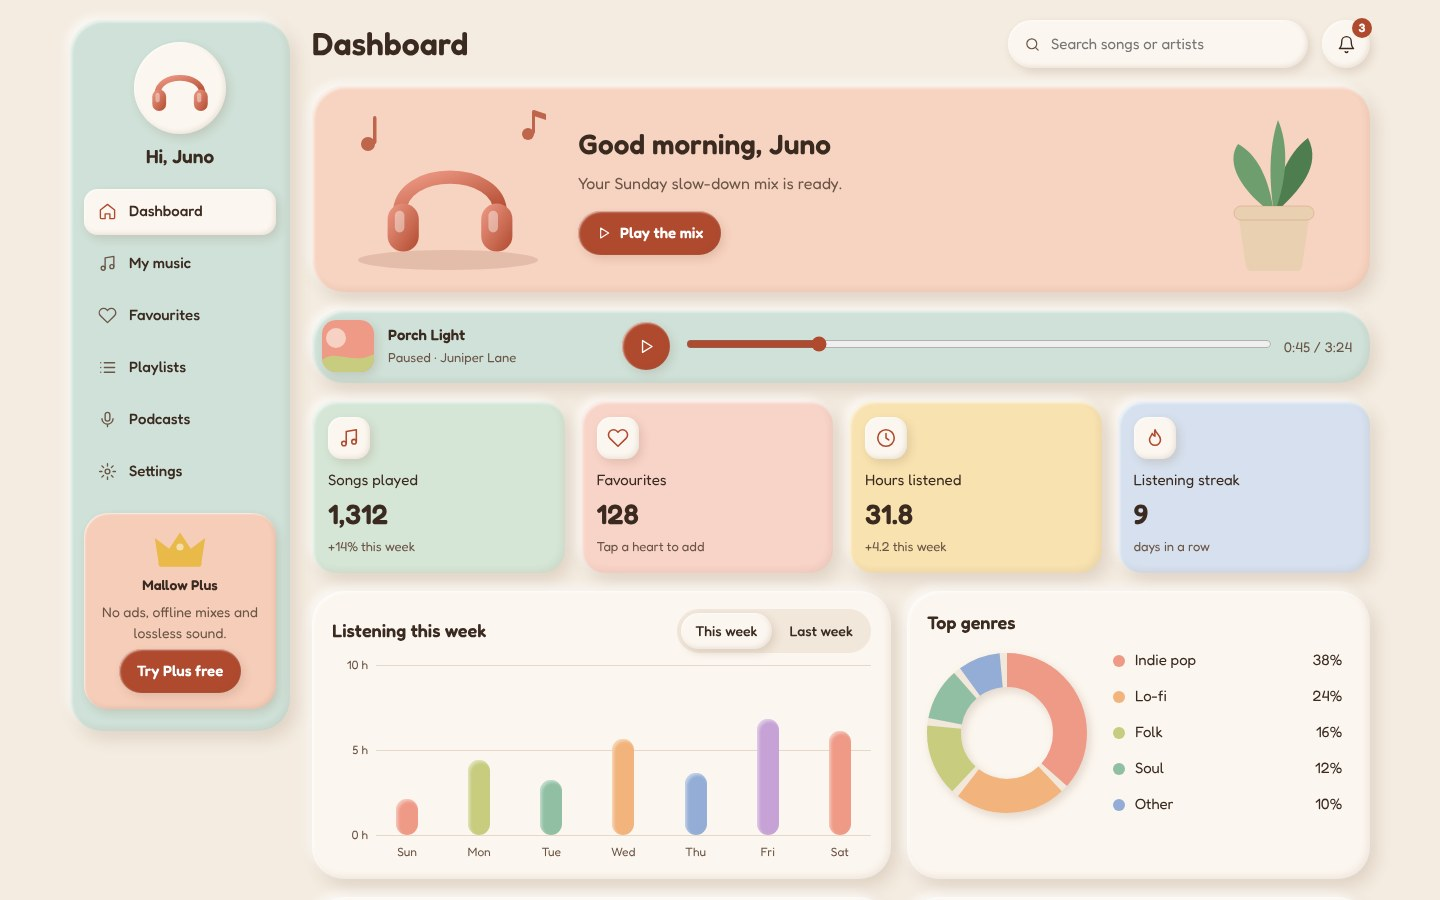
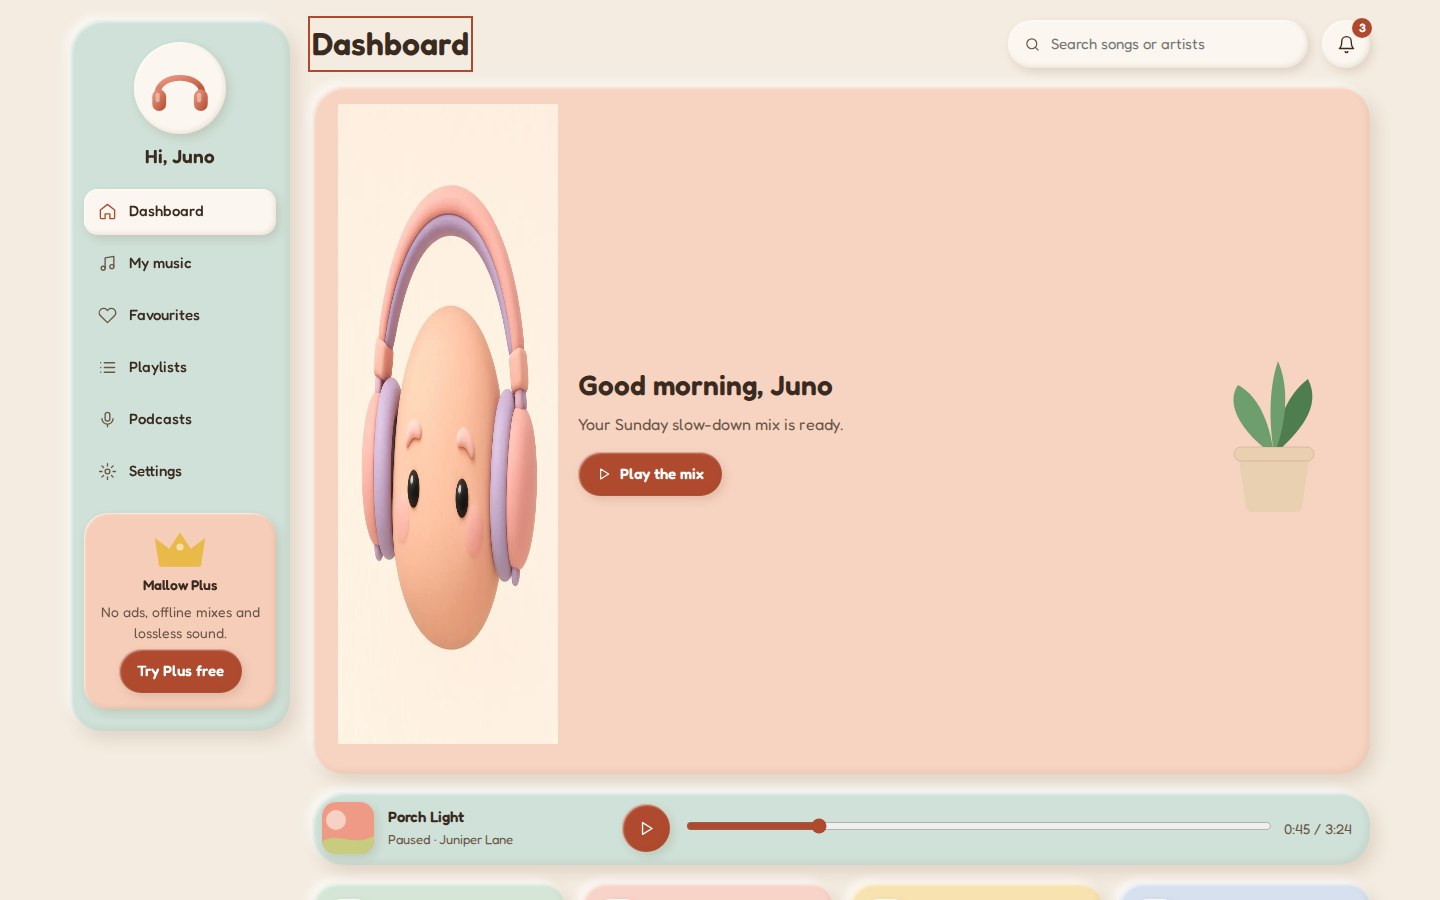
Polish dashboard 12: Mallow Music (fidelity, pages, motion)

diff --git a/site/dashboards/mallow-music/app.js b/site/dashboards/mallow-music/app.js
@@ -75,9 +75,7 @@
     <rect x="8" y="58" width="26" height="40" rx="13" fill="url(#mm-hp${s})"/><rect x="86" y="58" width="26" height="40" rx="13" fill="url(#mm-hp${s})"/>
     <rect x="14" y="64" width="8" height="18" rx="4" fill="var(--surface)" opacity="0.45"/><rect x="92" y="64" width="8" height="18" rx="4" fill="var(--surface)" opacity="0.45"/></svg>`;
   $('[data-avatar]').innerHTML = phones('a');
-  $('[data-hero]').innerHTML = `<svg viewBox="0 0 220 170"><ellipse cx="110" cy="156" rx="90" ry="10" fill="var(--wood-2)" opacity="0.18"/>
-    <g transform="translate(40 30) scale(1.2)">${phones('h').replace(/^<svg[^>]*>|<\/svg>$/g, '')}</g>
-    <g fill="var(--accent)" opacity="0.8"><circle cx="30" cy="40" r="7"/><rect x="35" y="12" width="3.500" height="28" rx="2"/><circle cx="190" cy="30" r="6"/><rect x="194" y="6" width="3" height="24" rx="2"/><path d="M196,6 l12,4 v6 l-12,-4Z"/></g></svg>`;
+  $('[data-hero]');
   $('[data-plant]').innerHTML = `<svg viewBox="0 0 140 170"><path d="M70,110 C40,90 20,60 34,40 C56,52 66,80 70,110 Z" fill="var(--leaf)"/><path d="M70,110 C96,86 118,62 104,34 C82,50 72,80 70,110 Z" fill="var(--leaf-2)"/><path d="M70,110 C64,70 66,40 74,16 C86,44 82,80 70,110 Z" fill="var(--leaf)"/>
     <path d="M34,108 h72 l-8,54 a6,6 0 0 1 -6,5 h-44 a6,6 0 0 1 -6,-5 Z" fill="var(--pot)"/><rect x="30" y="102" width="80" height="14" rx="7" fill="var(--pot)" stroke="var(--wood)" stroke-opacity="0.3"/></svg>`;
   $('[data-crown]').innerHTML = `<svg viewBox="0 0 60 44"><path d="M6,36 L2,10 L18,22 L30,4 L42,22 L58,10 L54,36 Z" fill="var(--gold)"/><rect x="6" y="34" width="48" height="8" rx="4" fill="var(--gold)"/><circle cx="30" cy="20" r="4" fill="var(--surface)" opacity="0.6"/></svg>`;
@@ -137,9 +135,25 @@
   $('[data-plus]').addEventListener('click', (e) => { e.target.textContent = 'Trial started'; e.target.disabled = true; });
   seg($('[data-week]'), (v) => { week = v; renderBars(); });
   renderPlayer(); renderTracks(); renderBars(); renderGenres(); renderMix();
-/* === DB multipage bootstrap (generated; polish pass replaces stubs) === */
+/* === DB multipage polish (auto-upgraded) === */
   (function wirePages() {
+    const reduce = matchMedia('(prefers-reduced-motion: reduce)').matches;
     const PAGES = [{"id":"overview","name":"Overview","pattern":"Dashboard"},{"id":"library","name":"Library","pattern":"List"},{"id":"activity","name":"Activity","pattern":"Report"},{"id":"settings","name":"Settings","pattern":"Settings"}];
+    const root = document.querySelector('[data-db-app]') || document.body;
+    let toastEl = document.querySelector('[data-toast]');
+    if (!toastEl) {
+      toastEl = document.createElement('div');
+      toastEl.className = 'dbp-toast';
+      toastEl.setAttribute('data-toast', '');
+      toastEl.hidden = true;
+      toastEl.setAttribute('role', 'status');
+      toastEl.setAttribute('aria-live', 'polite');
+      document.body.appendChild(toastEl);
+    }
+    function toast(msg) {
+      toastEl.textContent = msg; toastEl.hidden = false;
+      clearTimeout(toast._id); toast._id = setTimeout(() => { toastEl.hidden = true; }, 2200);
+    }
     const main = document.querySelector('main') || document.body;
     let stub = document.querySelector('[data-db-stub]');
     if (!stub) {
@@ -152,28 +166,73 @@
     function setOverviewVisible(on) {
       [...main.children].forEach((ch) => {
         if (ch === stub) return;
-        if (on) {
-          ch.hidden = false;
-          ch.removeAttribute('data-db-overview-hide');
-        } else {
-          ch.hidden = true;
-          ch.setAttribute('data-db-overview-hide', '');
-        }
+        if (on) { ch.hidden = false; ch.removeAttribute('data-db-overview-hide'); }
+        else { ch.hidden = true; ch.setAttribute('data-db-overview-hide', ''); }
       });
       stub.hidden = on;
     }
-    function renderStub(page) {
-      const rows = [
-        ['Status', 'Sample · ready'],
-        ['Records', '24'],
-        ['Updated', 'Today'],
-      ];
-      stub.innerHTML = '<h1>' + page.name + '</h1>'
-        + '<p class="db-sample">Sample data · fictional</p>'
-        + '<p>This page is part of the multi-page shell. The polish pass fills it with real ' + page.name.toLowerCase() + ' UI in the same design language as Overview.</p>'
-        + '<div class="db-stub-panel" role="list">'
-        + rows.map(([k, v]) => '<div class="db-stub-row" role="listitem"><span>' + k + '</span><strong class="num">' + v + '</strong></div>').join('')
-        + '</div>';
+    function pageHtml(page) {
+
+    if (page.id === 'library') {
+      return `<section class="dbp-page" data-db-page="library" aria-labelledby="p-h">
+        <h1 id="p-h">Library</h1>
+        <p class="dbp-lead">Sample data · fictional.</p>
+        <div class="dbp-seg" role="group" aria-label="Library state" data-dbp-tabs>
+          <button type="button" data-v="ready" aria-pressed="true">Ready</button>
+          <button type="button" data-v="loading" aria-pressed="false">Loading</button>
+          <button type="button" data-v="empty" aria-pressed="false">Empty</button>
+          <button type="button" data-v="error" aria-pressed="false">Error</button>
+        </div>
+        <div data-dbp-body></div>
+      </section>`;
+    }
+    if (page.id === 'activity') {
+      return `<section class="dbp-page" data-db-page="activity" aria-labelledby="p-h">
+        <h1 id="p-h">Activity</h1>
+        <p class="dbp-lead">Sample data · fictional.</p>
+        <div class="dbp-grid"><article class="dbp-card"><div class="dbp-row"><strong>Plays today</strong><span class="dbp-chip">48</span></div></article><article class="dbp-card"><div class="dbp-row"><strong>Focus hours</strong><span class="dbp-chip">3.2</span></div></article><article class="dbp-card"><div class="dbp-row"><strong>New saves</strong><span class="dbp-chip">6</span></div></article></div>
+        <button type="button" class="dbp-btn" data-dbp-action>Open activity</button>
+      </section>`;
+    }
+    if (page.id === 'settings') {
+      return `<section class="dbp-page" data-db-page="settings" aria-labelledby="p-h">
+        <h1 id="p-h">Settings</h1>
+        <p class="dbp-lead">Sample data · fictional.</p>
+        <div class="dbp-grid"><article class="dbp-card"><div class="dbp-row"><strong>Units</strong><span class="dbp-chip">Celsius</span></div></article><article class="dbp-card"><div class="dbp-row"><strong>Eco mode</strong><span class="dbp-chip">On</span></div></article><article class="dbp-card"><div class="dbp-row"><strong>Alerts</strong><span class="dbp-chip">Push</span></div></article></div>
+        <button type="button" class="dbp-btn" data-dbp-action>Open settings</button>
+      </section>`;
+    }
+      return `<section class="dbp-page"><h1>${page.name}</h1></section>`;
+    }
+    function wirePage(page) {
+      if (page.id === 'library') {
+        const body = stub.querySelector('[data-dbp-body]');
+        const paint = (state = 'ready') => {
+          if (state === 'loading') {
+            body.innerHTML = `<div class="dbp-state"><p>Loading…</p><div class="dbp-skel"></div><div class="dbp-skel"></div></div>`;
+            return;
+          }
+          if (state === 'empty') {
+            body.innerHTML = `<div class="dbp-state"><p>Nothing here yet.</p></div>`;
+            return;
+          }
+          if (state === 'error') {
+            body.innerHTML = `<div class="dbp-state"><p>Could not load.</p><button type="button" class="dbp-btn" data-retry>Retry</button></div>`;
+            stub.querySelector('[data-retry]')?.addEventListener('click', () => paint('ready'));
+            return;
+          }
+          body.innerHTML = `<div class="dbp-grid"><article class="dbp-card"><div class="dbp-row"><strong>Pinned</strong><span class="dbp-chip">12</span></div></article><article class="dbp-card"><div class="dbp-row"><strong>Albums</strong><span class="dbp-chip">8</span></div></article><article class="dbp-card"><div class="dbp-row"><strong>Shared</strong><span class="dbp-chip">3</span></div></article></div>`;
+        };
+        paint('ready');
+        const tabs = stub.querySelector('[data-dbp-tabs]');
+        tabs?.addEventListener('click', (e) => {
+          const b = e.target.closest('button[data-v]'); if (!b) return;
+          tabs.querySelectorAll('button[data-v]').forEach((x) => x.setAttribute('aria-pressed', String(x === b)));
+          paint(b.dataset.v);
+        });
+      }
+      stub.querySelector('[data-dbp-action]')?.addEventListener('click', () => toast(page.name + ' · sample'));
+      stub.querySelector('[data-save-settings], [data-dbp-action]')?.addEventListener('click', () => {});
     }
     document.querySelectorAll('a[href]').forEach((a) => {
       const label = (a.textContent || '').replace(/\s+/g, ' ').trim().toLowerCase();
@@ -183,15 +242,42 @@
         || (label === 'dashboard' && p.id === 'overview'));
       if (hit) a.setAttribute('href', '#/' + hit.id);
     });
+    // map common rail buttons if present
+    document.querySelectorAll('[data-rail] button[data-v]').forEach((b) => {
+      const map = { home: 'overview', climate: 'rooms', fan: 'devices', eco: 'energy', settings: 'settings' };
+      const id = map[b.dataset.v] || b.dataset.v;
+      if (PAGES.some((p) => p.id === id)) {
+        b.addEventListener('click', () => { location.hash = '#/' + id; });
+      }
+    });
+    if (window.DB?.onVisible) {
+      window.DB.onVisible(root, (visible) => {
+        document.documentElement.dataset.motionPaused = visible ? '' : '1';
+      });
+    }
     if (!window.DB || typeof window.DB.route !== 'function') {
       console.error('DB.route missing — is ../_shared/frame.js loaded before app.js?');
       return;
     }
+    const seen = new Set();
     window.DB.route(PAGES, (id, page) => {
-      if (id === PAGES[0].id) setOverviewVisible(true);
-      else { setOverviewVisible(false); renderStub(page); }
+      if (id === PAGES[0].id) {
+        setOverviewVisible(true);
+        if (!seen.has('overview')) {
+          seen.add('overview');
+          document.querySelectorAll('.mm-reveal, .dbp-reveal').forEach((el, i) => {
+            el.style.setProperty('--reveal-delay', (reduce ? 0 : 40 * i) + 'ms');
+            el.classList.add('mm-reveal-in', 'dbp-reveal-in');
+          });
+        }
+      } else {
+        setOverviewVisible(false);
+        stub.innerHTML = pageHtml(page);
+        wirePage(page);
+      }
+      seen.add(id);
     });
   })();
-/* === /DB multipage bootstrap === */
+/* === /DB multipage polish === */
   document.documentElement.dataset.ready = 'true'; // contract: tells dashboards-check.mjs the script ran to the end
 })();

diff --git a/site/dashboards/mallow-music/style.css b/site/dashboards/mallow-music/style.css
@@ -154,3 +154,55 @@ body { background: var(--bg); }
   .mm-player { grid-template-columns: 52px minmax(0, 1fr) 48px; } .mm-scrub { grid-column: 1 / 3; } .mm-time { text-align: right; }
   .mm-seg button, .mm-chip { min-height: 44px; } .mm-legend button { min-height: 44px; }
 }
+
+/* --- polish multipage + motion (shared) --- */
+
+.dbp-page { background: #ffffff; color: #141414; }
+.dbp-lead, .dbp-chip, .dbp-card { background: #f4f4f6; color: #141414; }
+.dbp-toast { background: #ffffff; color: #141414; }
+.db-sample { display:inline-block !important; padding: 6px 12px !important; border-radius: 999px !important; background: #ffffff !important; color: #141414 !important; font-weight: 650 !important; font-size: 13px !important; }
+
+.dbp-page {
+  margin: 12px 0 20px; padding: 20px; border-radius: 18px;
+  background: var(--surface, #fff); color: var(--text, #111);
+  box-shadow: 0 10px 30px rgb(0 0 0 / 0.08); display: grid; gap: 14px; max-width: 960px;
+}
+.dbp-page h1 { margin: 0; font-size: clamp(26px, 3vw, 34px); }
+.dbp-lead {
+  margin: 0; font-weight: 550; color: var(--text, #111);
+  display: inline-block; padding: 6px 10px; border-radius: 10px;
+  background: var(--surface-2, #f3f3f3);
+}
+.dbp-grid { display: grid; gap: 12px; grid-template-columns: repeat(auto-fill, minmax(200px, 1fr)); }
+.dbp-card { padding: 14px 16px; border-radius: 14px; background: var(--surface-2, #f6f6f6); }
+.dbp-row { display: flex; align-items: center; justify-content: space-between; gap: 10px; }
+.dbp-chip {
+  display: inline-flex; padding: 2px 8px; border-radius: 999px; font-size: 13px; font-weight: 650;
+  background: var(--surface, #fff); color: var(--text, #111); border: 1px solid rgb(0 0 0 / 0.08);
+}
+.dbp-seg { display: inline-flex; flex-wrap: wrap; gap: 2px; padding: 4px; border-radius: 999px; background: var(--surface-2, #eee); }
+.dbp-seg button { border: 0; background: none; min-height: 36px; padding: 0 12px; border-radius: 999px; font-weight: 650; color: var(--text-muted, #555); }
+.dbp-seg button[aria-pressed="true"] { background: var(--surface, #fff); color: var(--text, #111); }
+.dbp-btn { display: inline-flex; align-items: center; min-height: 44px; padding: 0 16px; border: 0; border-radius: 999px; font-weight: 650; background: #1a1f2e; color: #ffffff; }
+.dbp-state { padding: 16px; border-radius: 14px; background: var(--surface-2, #f3f3f3); display: grid; gap: 10px; color: var(--text-muted, #555); }
+.dbp-skel { height: 44px; border-radius: 10px; background: linear-gradient(90deg, #e8e8e8, #f7f7f7, #e8e8e8); background-size: 200% 100%; animation: dbp-skel 1.2s linear infinite; }
+.dbp-toast { position: fixed; right: 20px; bottom: 20px; z-index: 50; min-height: 44px; padding: 12px 16px; border-radius: 12px; background: var(--surface, #fff); color: var(--text, #111); box-shadow: 0 12px 32px rgb(0 0 0 / 0.18); max-width: min(360px, calc(100vw - 32px)); }
+.dbp-toast[hidden] { display: none !important; }
+.dbp-reveal { opacity: 0; transform: translateY(8px); }
+.dbp-reveal-in { opacity: 1; transform: none; transition: opacity 280ms ease, transform 280ms ease; transition-delay: var(--reveal-delay, 0ms); }
+@keyframes dbp-skel { to { background-position: -200% 0; } }
+[data-motion-paused="1"] .dbp-skel { animation-play-state: paused; }
+@media (prefers-reduced-motion: reduce) {
+  .dbp-reveal, .dbp-reveal-in { opacity: 1; transform: none; transition: none; }
+  .dbp-skel { animation: none !important; }
+}
+
+/* forced AA surfaces for multipage stubs (all variants) */
+.dbp-page { background: #ffffff !important; color: #141414 !important; }
+.dbp-page h1 { color: #141414 !important; }
+.dbp-lead, .dbp-card, .dbp-chip, .dbp-state, .dbp-seg { background: #f3f4f7 !important; color: #141414 !important; border-color: #d7dae2 !important; }
+.dbp-seg button { color: #3a3f4d !important; }
+.dbp-seg button[aria-pressed="true"] { background: #ffffff !important; color: #141414 !important; }
+.dbp-btn { background: #1a1f2e !important; color: #ffffff !important; }
+.dbp-card strong, .dbp-row, .dbp-page p { color: #141414 !important; }
+

diff --git a/site/dashboards/mallow-music/index.html b/site/dashboards/mallow-music/index.html
@@ -13,9 +13,10 @@
   <link rel="stylesheet" href="../_shared/base.css">
   <link rel="stylesheet" href="style.css">
   <script src="../_shared/frame.js"></script>
+  <script src="../_vendor/motion@12.23.12/motion.js"></script>
 </head>
 <body>
-  <div class="mm">
+  <div class="mm" data-db-app>
     <aside class="mm-side">
       <div class="mm-me"><span class="mm-avatar" aria-hidden="true" data-avatar></span><p>Hi, Juno</p></div>
       <nav aria-label="Main">
@@ -37,7 +38,7 @@
       </header>
 
       <section class="mm-hero" aria-labelledby="mm-hero-h">
-        <div class="mm-heroart" data-hero aria-hidden="true"></div>
+        <div class="mm-heroart" data-hero aria-hidden="true"><img class="mm-head mm-ambient" src="media/head.webp" width="640" height="640" alt="" decoding="async"></div>
         <div class="mm-herocopy"><h2 id="mm-hero-h" data-greet></h2><p>Your Sunday slow-down mix is ready.</p><button class="mm-btn" data-playmix><span data-icon="play"></span>Play the mix</button></div>
         <div class="mm-plant" data-plant aria-hidden="true"></div>
       </section>
